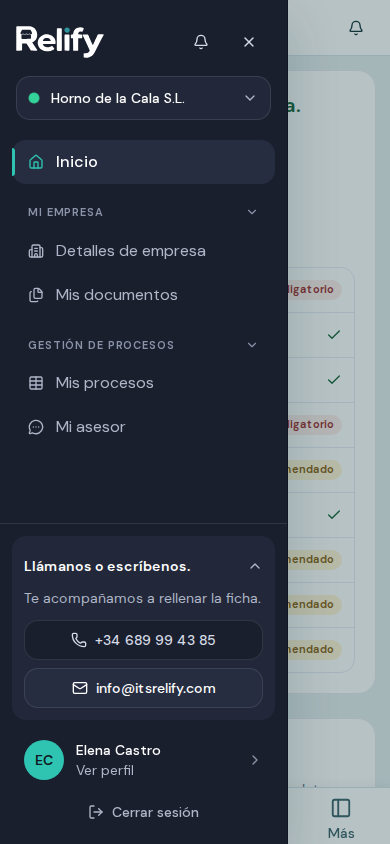
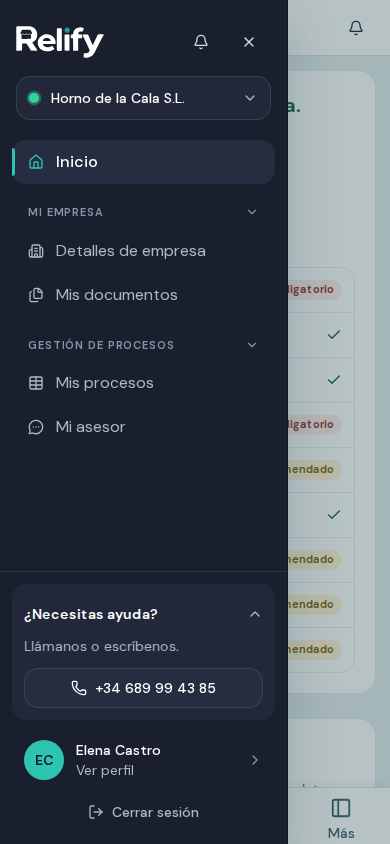
Fix seller help copy, reuse stored DNI on LOI, and seed INT buyer fixtures.

diff --git a/tests/unit/lib/identity-declaration.test.ts b/tests/unit/lib/identity-declaration.test.ts
@@ -1,5 +1,7 @@
+import { readFileSync } from "node:fs";
+import path from "node:path";
 import { describe, expect, it } from "vitest";
-import { identityDeclared } from "@/lib/identity-declaration";
+import { identityDeclared, identityOnSign } from "@/lib/identity-declaration";
 
 describe("identityDeclared", () => {
   it("accepts the checkbox on values", () => {
@@ -13,5 +15,40 @@ describe("identityDeclared", () => {
     expect(identityDeclared(null)).toBe(false);
     expect(identityDeclared("")).toBe(false);
     expect(identityDeclared("off")).toBe(false);
+  });
+});
+
+describe("NDA then LOI identity reuse", () => {
+  it("asks for DNI on NDA when missing, then skips it on LOI once stored", () => {
+    expect(identityOnSign({ nationalIdMissing: true, collectIdentity: true })).toBe("ask");
+    expect(identityOnSign({ nationalIdMissing: false, collectIdentity: true })).toBe("confirm");
+    expect(identityOnSign({ nationalIdMissing: false, collectIdentity: false })).toBe("skip");
+    expect(identityOnSign({ nationalIdMissing: true, collectIdentity: false })).toBe("ask");
+  });
+
+  it("writes national_id on NDA and does not collect identity on the LOI pad", () => {
+    const ndaAction = readFileSync(path.join(process.cwd(), "src/app/proyectos/[slug]/actions.ts"), "utf8");
+    const pad = readFileSync(path.join(process.cwd(), "src/components/investor/signature-pad.tsx"), "utf8");
+    const pipeline = readFileSync(path.join(process.cwd(), "src/components/investor/deal-pipeline.tsx"), "utf8");
+    const ensure = readFileSync(path.join(process.cwd(), "src/lib/server/ensure-national-id.ts"), "utf8");
+    expect(ndaAction).toMatch(/export async function acceptNdaAction[\s\S]*ensureNationalId\(user\.id, formData\.get\("nationalId"\)\)/);
+    expect(ensure).toMatch(/data: \{ nationalId: normalizeCif\(parsed\.data\) \}/);
+    expect(pipeline).toMatch(/collectIdentity=\{kind === "nda"\}/);
+    expect(pad).toMatch(/identityOnSign\(\{ nationalIdMissing, collectIdentity \}\)/);
+  });
+
+  it("seeds the INT buyer DNI so LOI reuse can be tested after a pre-S17 NDA", () => {
+    const fixtures = readFileSync(path.join(process.cwd(), "prisma/int-consultoria-buyer-fixtures.sql"), "utf8");
+    const seed = readFileSync(path.join(process.cwd(), "scripts/generate-corrected-seed.mjs"), "utf8");
+    expect(fixtures).toMatch(/int-comprador@test\.local/);
+    expect(fixtures).toMatch(/national_id = '12345678Z'/);
+    expect(fixtures).toMatch(/cuentas-2024\.pdf/);
+    expect(fixtures).toMatch(/modelo-200\.pdf/);
+    expect(fixtures).toMatch(/pacto-socios\.pdf/);
+    expect(fixtures).toMatch(/int-cs-share-cuentas/);
+    expect(fixtures).toMatch(/int-cs-share-modelo/);
+    expect(fixtures).not.toMatch(/int-cs-share-pacto/);
+    expect(seed).toMatch(/national_id = '12345678Z'/);
+    expect(seed).toMatch(/pacto-socios not shared/);
   });
 });

diff --git a/tests/e2e/playwright/buyer.spec.ts b/tests/e2e/playwright/buyer.spec.ts
@@ -23,4 +23,26 @@ test.describe("buyer marketplace", () => {
     await expectNoIdentityLeak(page);
     await expect(page.locator("body")).toContainText(/facturación|ebitda|conectar|solicitud/i);
   });
+
+  test("LOI sign dialog skips DNI when national_id is already stored", async ({ page }) => {
+    test.skip(!roleCreds("investor"), "Set E2E_INVESTOR_EMAIL and E2E_INVESTOR_PASSWORD");
+    const signedIn = await signInAs(page, "investor");
+    expect(signedIn).toBe(true);
+    await page.goto("/procesos");
+    await expect(page.locator(".shell-content")).toBeVisible({ timeout: 20_000 });
+    const loiButtons = page.getByRole("button", { name: /proceder al loi|firmar loi/i });
+    const consultoria = page.locator("li").filter({ hasText: /consultoría servicios/i }).filter({ has: loiButtons }).first();
+    const anyLoi = page.locator("li").filter({ has: loiButtons }).first();
+    const scope = (await consultoria.count()) > 0 ? consultoria : anyLoi;
+    await expect(scope).toBeVisible({ timeout: 15_000 });
+    const proceed = scope.getByRole("button", { name: /proceder al loi/i });
+    if (await proceed.isVisible().catch(() => false)) {
+      await proceed.click();
+    }
+    await scope.getByRole("button", { name: /firmar loi/i }).click();
+    const dialog = page.getByRole("dialog").filter({ hasText: /carta de intenciones/i });
+    await expect(dialog).toBeVisible();
+    await expect(dialog.locator('input[name="nationalId"]')).toHaveCount(0);
+    await expect(dialog.getByText(/dni\/nie/i)).toHaveCount(0);
+  });
 });

diff --git a/tests/unit/lib/buyer-post-nda.test.ts b/tests/unit/lib/buyer-post-nda.test.ts
@@ -3,6 +3,7 @@ import { buyerProjectView } from "@/lib/report-veil";
 import { toInvestorProject } from "@/lib/investor-project";
 import { accessFromConnection } from "@/lib/project-access";
 import { investorProcessFiles } from "@/lib/deal-pipeline";
+import { sharedFileIds } from "@/lib/data-room";
 
 const closedYear = {
   year: 2024,
@@ -115,5 +116,26 @@ describe("post-NDA buyer ficha", () => {
     expect(investorProcessFiles({ ndaAcceptedAt: new Date(), granted: true, files })).toEqual([
       { folder: "Cuentas", fileName: "pyg.pdf", id: "f1", stored: true },
     ]);
+  });
+
+  it("shows only files the seller shared with that buyer", () => {
+    const files = [
+      { id: "shared-cuentas", folder: "Financiero", fileName: "cuentas-2024.pdf" },
+      { id: "private-pacto", folder: "Legal", fileName: "pacto-socios.pdf" },
+    ];
+    const visible = sharedFileIds({
+      files,
+      investorId: "buyer-1",
+      granted: true,
+      shares: [{ fileId: "shared-cuentas", investorId: "buyer-1" }],
+    });
+    expect([...visible]).toEqual(["shared-cuentas"]);
+    expect(
+      investorProcessFiles({
+        ndaAcceptedAt: new Date(),
+        granted: true,
+        files: files.filter((file) => visible.has(file.id)),
+      }).map((file) => file.fileName),
+    ).toEqual(["cuentas-2024.pdf"]);
   });
 });

diff --git a/src/components/investor/signature-pad.tsx b/src/components/investor/signature-pad.tsx
@@ -6,6 +6,7 @@ import { platformTermsCopy } from "@/lib/platform-terms";
 import { useSigner } from "@/components/investor/signer-context";
 import { IdentityDeclarationCheckbox } from "@/components/auth/identity-declaration";
 import { authCopy } from "@/lib/auth-copy";
+import { identityOnSign } from "@/lib/identity-declaration";
 import { Input } from "@/components/ui/form";
 
 function exportJpeg(canvas: HTMLCanvasElement): string {
@@ -38,9 +39,10 @@ export function SignaturePad({
   const moved = useRef(false);
   const [signed, setSigned] = useState(false);
   const { nationalIdMissing, nationalIdMasked } = useSigner();
-  const askId = nationalIdMissing;
-  const confirmStored = collectIdentity && !nationalIdMissing;
-  const declareIdentity = collectIdentity || askId;
+  const identity = identityOnSign({ nationalIdMissing, collectIdentity });
+  const askId = identity === "ask";
+  const confirmStored = identity === "confirm";
+  const declareIdentity = identity !== "skip";
 
   function point(event: PointerEvent<HTMLCanvasElement>) {
     const canvas = canvasRef.current;

diff --git a/tests/unit/lib/shell-layout.test.ts b/tests/unit/lib/shell-layout.test.ts
@@ -155,10 +155,15 @@ describe("S17 buyer ficha and seller surfaces", () => {
     expect(metrics).not.toMatch(/netResult|Resultado neto/);
   });
 
-  it("renames help to Llámanos o escríbenos and shows only the phone number", () => {
-    expect(shellCopySource).toMatch(/helpTitle: "Llámanos o escríbenos\."/);
+  it("keeps seller help as Necesitas ayuda with Llámanos body and the phone only", () => {
+    expect(shellCopySource).toMatch(/helpTitle: "¿Necesitas ayuda\?"/);
+    expect(shellCopySource).toMatch(/helpBody: "Llámanos o escríbenos\."/);
+    expect(shellCopySource).toMatch(/helpPhone: "\+34 689 99 43 85"/);
+    expect(shellCopySource).not.toMatch(/Te acompañamos a rellenar la ficha/);
     expect(appFrame).toMatch(/shellCopy\.helpPhone/);
     expect(appFrame).not.toMatch(/shellCopy\.helpCall/);
+    expect(appFrame).not.toMatch(/shellCopy\.helpEmail/);
+    expect(appFrame).not.toMatch(/Llamar/);
   });
 
   it("puts the dossier download in the buyer banner and drops the LOI template link", () => {

diff --git a/src/components/shell/app-frame.tsx b/src/components/shell/app-frame.tsx
@@ -483,13 +483,6 @@ export function AppFrame({
                   <PhoneIcon size={16} aria-hidden />
                   {shellCopy.helpPhone}
                 </a>
-                <a
-                  href={shellCopy.helpEmailHref}
-                  className="group inline-flex h-10 min-w-0 items-center justify-center gap-2 rounded-xl border border-white/10 bg-[#1a1f2e] px-3 text-sm font-medium text-[#d6dbe6] hover:bg-[#262d40] hover:text-white"
-                >
-                  <MailIcon size={16} aria-hidden />
-                  <span className="truncate">{shellCopy.helpEmail}</span>
-                </a>
               </div>
             </details>
           ) : null}

diff --git a/src/lib/identity-declaration.ts b/src/lib/identity-declaration.ts
@@ -3,3 +3,19 @@ export const identityDeclarationField = "identityDeclared";
 export function identityDeclared(value: FormDataEntryValue | null): boolean {
   return value === "on" || value === "true" || value === "1" || value === "yes";
 }
+
+/** NDA collects or confirms DNI/NIE. LOI asks only when the profile has none. */
+export type IdentityOnSign = "ask" | "confirm" | "skip";
+
+export function identityOnSign(input: {
+  nationalIdMissing: boolean;
+  collectIdentity: boolean;
+}): IdentityOnSign {
+  if (input.nationalIdMissing) {
+    return "ask";
+  }
+  if (input.collectIdentity) {
+    return "confirm";
+  }
+  return "skip";
+}

diff --git a/src/lib/shell.ts b/src/lib/shell.ts
@@ -6,8 +6,8 @@ export const shellCopy = {
   navLabel: "Secciones",
   accountLabel: "Cuenta",
   viewProfile: "Ver perfil",
-  helpTitle: "Llámanos o escríbenos.",
-  helpBody: "Te acompañamos a rellenar la ficha.",
+  helpTitle: "¿Necesitas ayuda?",
+  helpBody: "Llámanos o escríbenos.",
   helpCall: "",
   helpPhone: "+34 689 99 43 85",
   helpPhoneHref: "tel:+34689994385",

diff --git a/docs/STATUS.md b/docs/STATUS.md
@@ -6,6 +6,7 @@ Phase: signed-in product. New accounts finish onboarding before a role home. Inv
 
 ## Done
 
+- Round S17b (same PR #24, stacked on PR #23, do not merge/deploy): `/mi-empresa` help title is **¿Necesitas ayuda?**, body exactly **Llámanos o escríbenos.**, phone only `+34 689 99 43 85` (no “Llamar”, no email, no “Te acompañamos a rellenar la ficha.”). NDA signing writes `user.national_id` via `ensureNationalId`; LOI skips the DNI field when it is already stored (`identityOnSign` → `skip`). Additive INT-only `prisma/int-consultoria-buyer-fixtures.sql` sets `int-comprador@test.local` DNI (NDA predated the write) and seeds Consultoría Servicios data-room folders/files (cuentas-2024.pdf and modelo-200.pdf shared, pacto-socios.pdf not). No Prisma schema migration. `npm run typecheck` exited 0. `npm run lint` exited 0 (14 existing warnings, 0 errors). Local PG `npm run test` exited 0 (604 passed / 127 files, 2 skipped files). `npm run e2e` 46 passed / 8 skipped (desktop compact-chrome skipped; LOI-without-DNI on desktop and 390). Shots in `artifacts/round-s17/after` (`390-04-help`, `1440-04-help`, `390-09-loi-no-dni`, `1440-09-loi-no-dni`). INT pack in `artifacts/round-s17/int-deploy/` (rebuild after this commit; apply `int-consultoria-years.sql` and `int-consultoria-buyer-fixtures.sql` on INT; not deployed). Not deployed. No prod DB.
[1 lines of base64/hex data omitted]
 - Seller detalles: financing % and años keep a visible grey border. The “vas por buen camino” description line is gone. Código postal and ciudad are one Ubicación field (`08022, Barcelona`). The price bar snaps to thousands of euros. Cancelar and Guardar sit centered on every detalles panel. `npm run typecheck` exited 0. `npm run lint` exited 0 (14 existing warnings, 0 errors). `npm run test -- tests/unit/lib/company-location.test.ts` exited 0 (9 tests). Not merged to main.
[1 lines of base64/hex data omitted]

diff --git a/docs/DECISIONS.md b/docs/DECISIONS.md
@@ -2,6 +2,10 @@
 
 Change a row only by adding a new dated entry. Do not silently swap libraries.
 
+## 2026-11-14 — Round S17b help copy, LOI DNI reuse, INT buyer fixtures
+
+Seller `/mi-empresa` help stays titled **¿Necesitas ayuda?**, body exactly **Llámanos o escríbenos.**, and the phone number only (`+34 689 99 43 85`). No “Llamar”, no email row, no “Te acompañamos a rellenar la ficha.” Contact-page email is unchanged. NDA signing writes `user.national_id` via `ensureNationalId`; LOI `collectIdentity` is false so a stored id skips the DNI field (`identityOnSign` → `skip`). Additive INT-only SQL `prisma/int-consultoria-buyer-fixtures.sql` sets `int-comprador@test.local`’s DNI (signed NDA before this write existed) and seeds Consultoría Servicios data-room folders/files (two shared, pacto-socios not). No Prisma schema migration.
+
 ## 2026-11-14 — Round S17 buyer ficha, DNI reuse, teaser and price bar
 
 Asking-price bar commits on pointerup / debounce, not on every move, so autosave cannot flash the page. The orientative-range sentence is an InfoHint formula, not body copy. Ficha KPI tiles drop Resultado neto. Teaser is a centered card under the document grid with copy-link only. Buyer report nav uses the same `inlineUntilSticky` as the seller ficha. After NDA (`access === "accepted"` / `ndaAcceptedAt`) the buyer sees unveiled figures, charts, detalle and the process document list; company legal identity stays off public/investor reads; data-room files stay share-gated. DNI/NIE stays on existing `user.national_id` (Neon at-rest encryption only — no app-level ciphertext column). UI never receives the full id (`nationalIdMasked`). LOI does not ask again when the profile already has one. Declaration checkbox is required when collecting or confirming identity. Logged-out landing uses one primary **Prueba gratis** (`/registro`) in the hero and header, with a ghost **Iniciar sesión** (`/entrar`) beside it. Hero title is “El mercado inteligente para comprar y vender empresas rentables”: SwapVerb still rotates comprar/vender; **rentables** uses a gold `background-clip: text` sweep (static `#a87f2c` / overlay `#f3e2b3` under `prefers-reduced-motion`). Mobile hero copy is centered. No Prisma schema migration.

diff --git a/docs/LEARNINGS.md b/docs/LEARNINGS.md
@@ -6,6 +6,7 @@ Append-only. One line per project-specific pitfall:
 
 ## Entries
 
+- 2026-11-14: S17 help box inverted title/body and kept the email row — keep title ¿Necesitas ayuda?, body exactly Llámanos o escríbenos., phone number only (no Llamar, no email).
 - 2026-11-14: landing honesty test failed the new hero title — it banned the exact phrase `empresas rentables`, which S17 uses as positioning, not a live-market claim — do not keep that exact string in the ban list.
 - 2026-11-14: Playwright admin last-control at 390 failed on `/admin/empresas/int-consultoria-servicios` — closed `<details>` still expose `position:absolute` chart bars (`tabindex=0`) in the viewport — skip `details:not([open])` in the chrome helper.
 - 2026-11-14: prod `/api/health` 404 — the route landed in Round S8 on stacked branches and is present at S16 `a4844ed`; `main` never received it — do not “restore” on main from this round.
